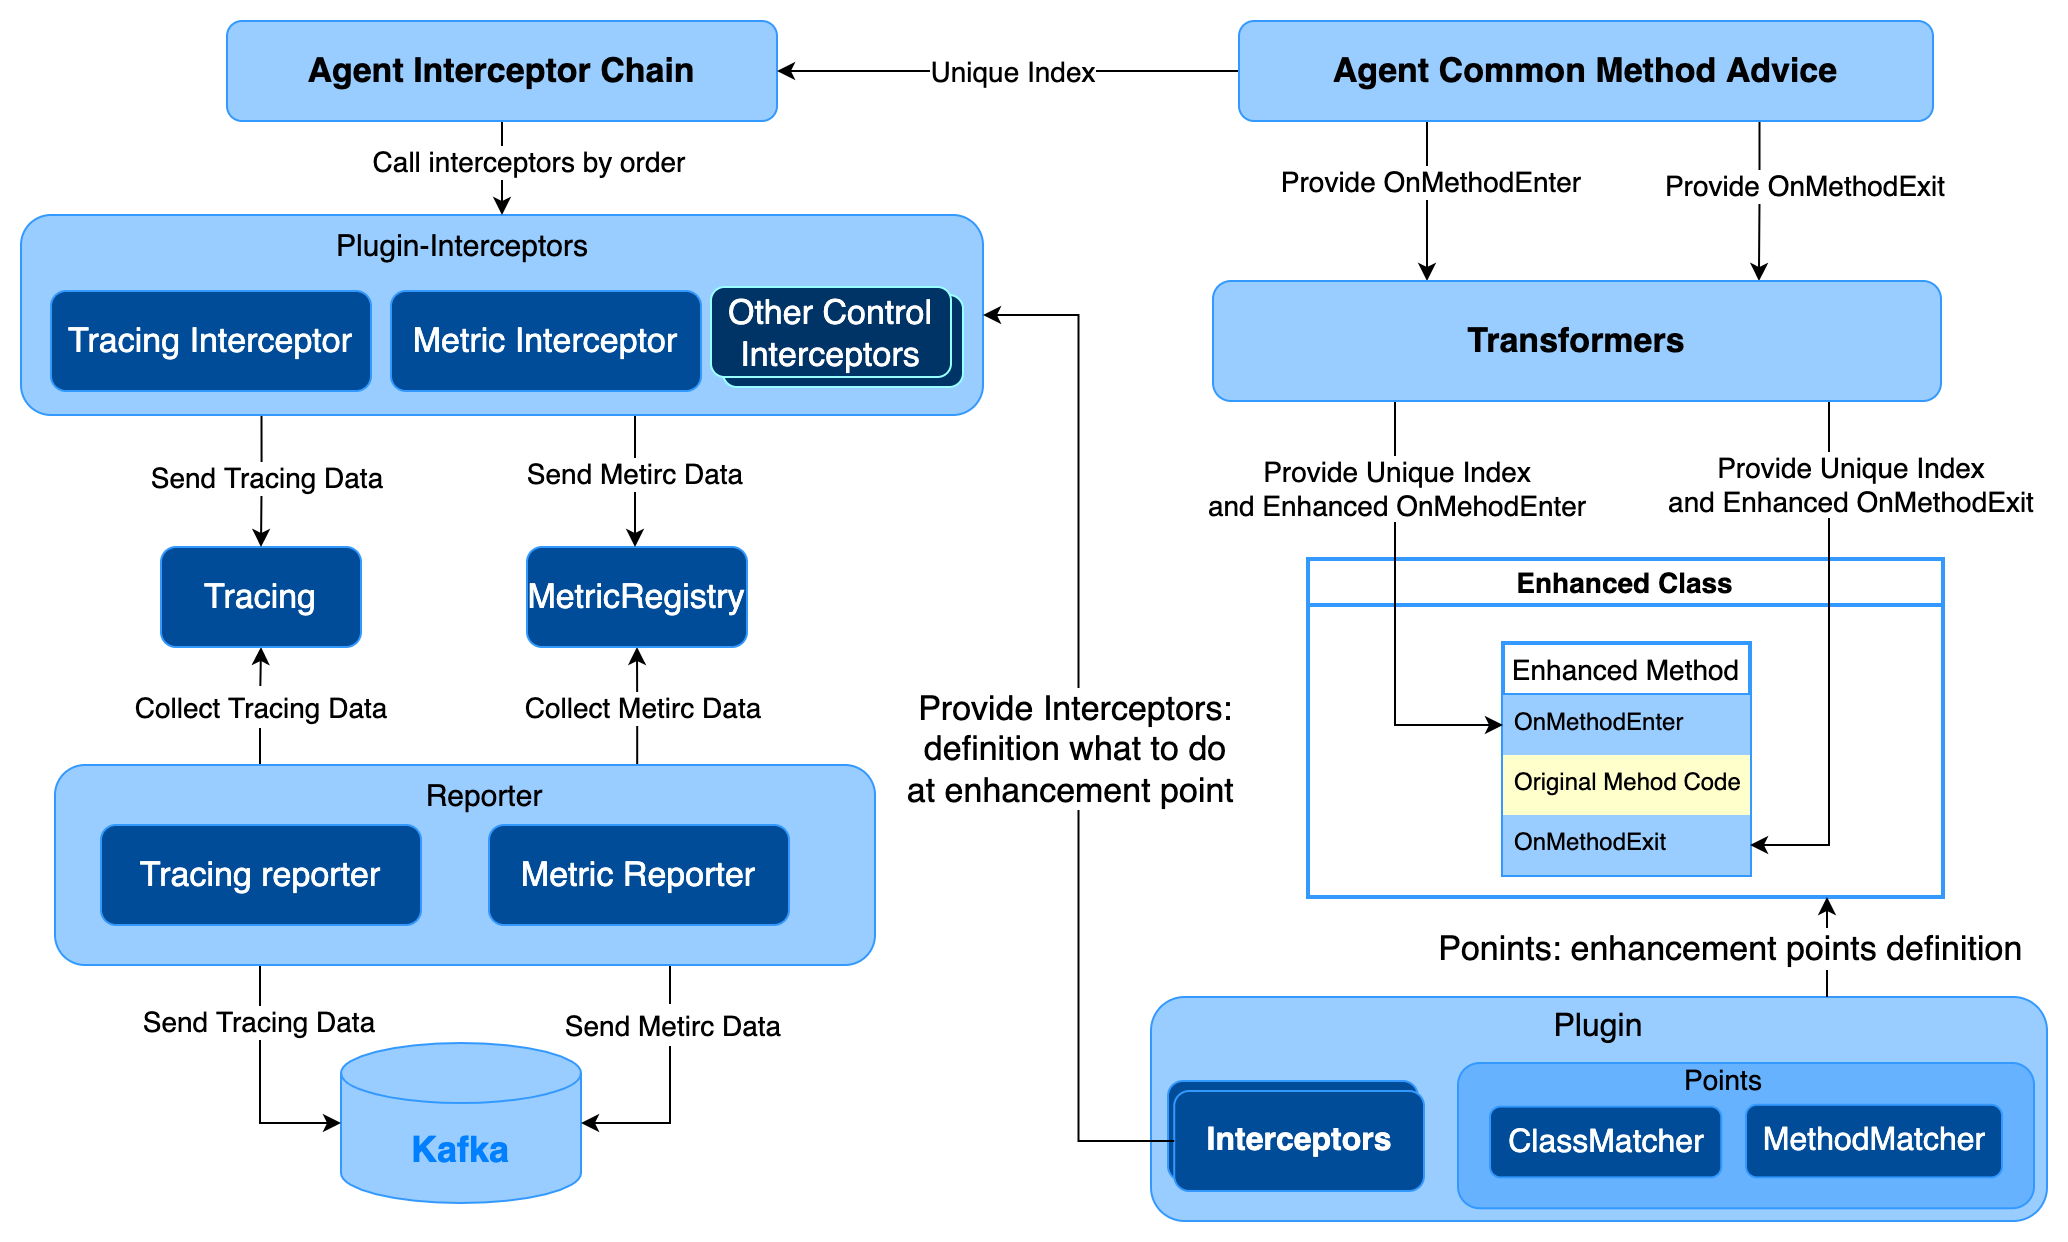
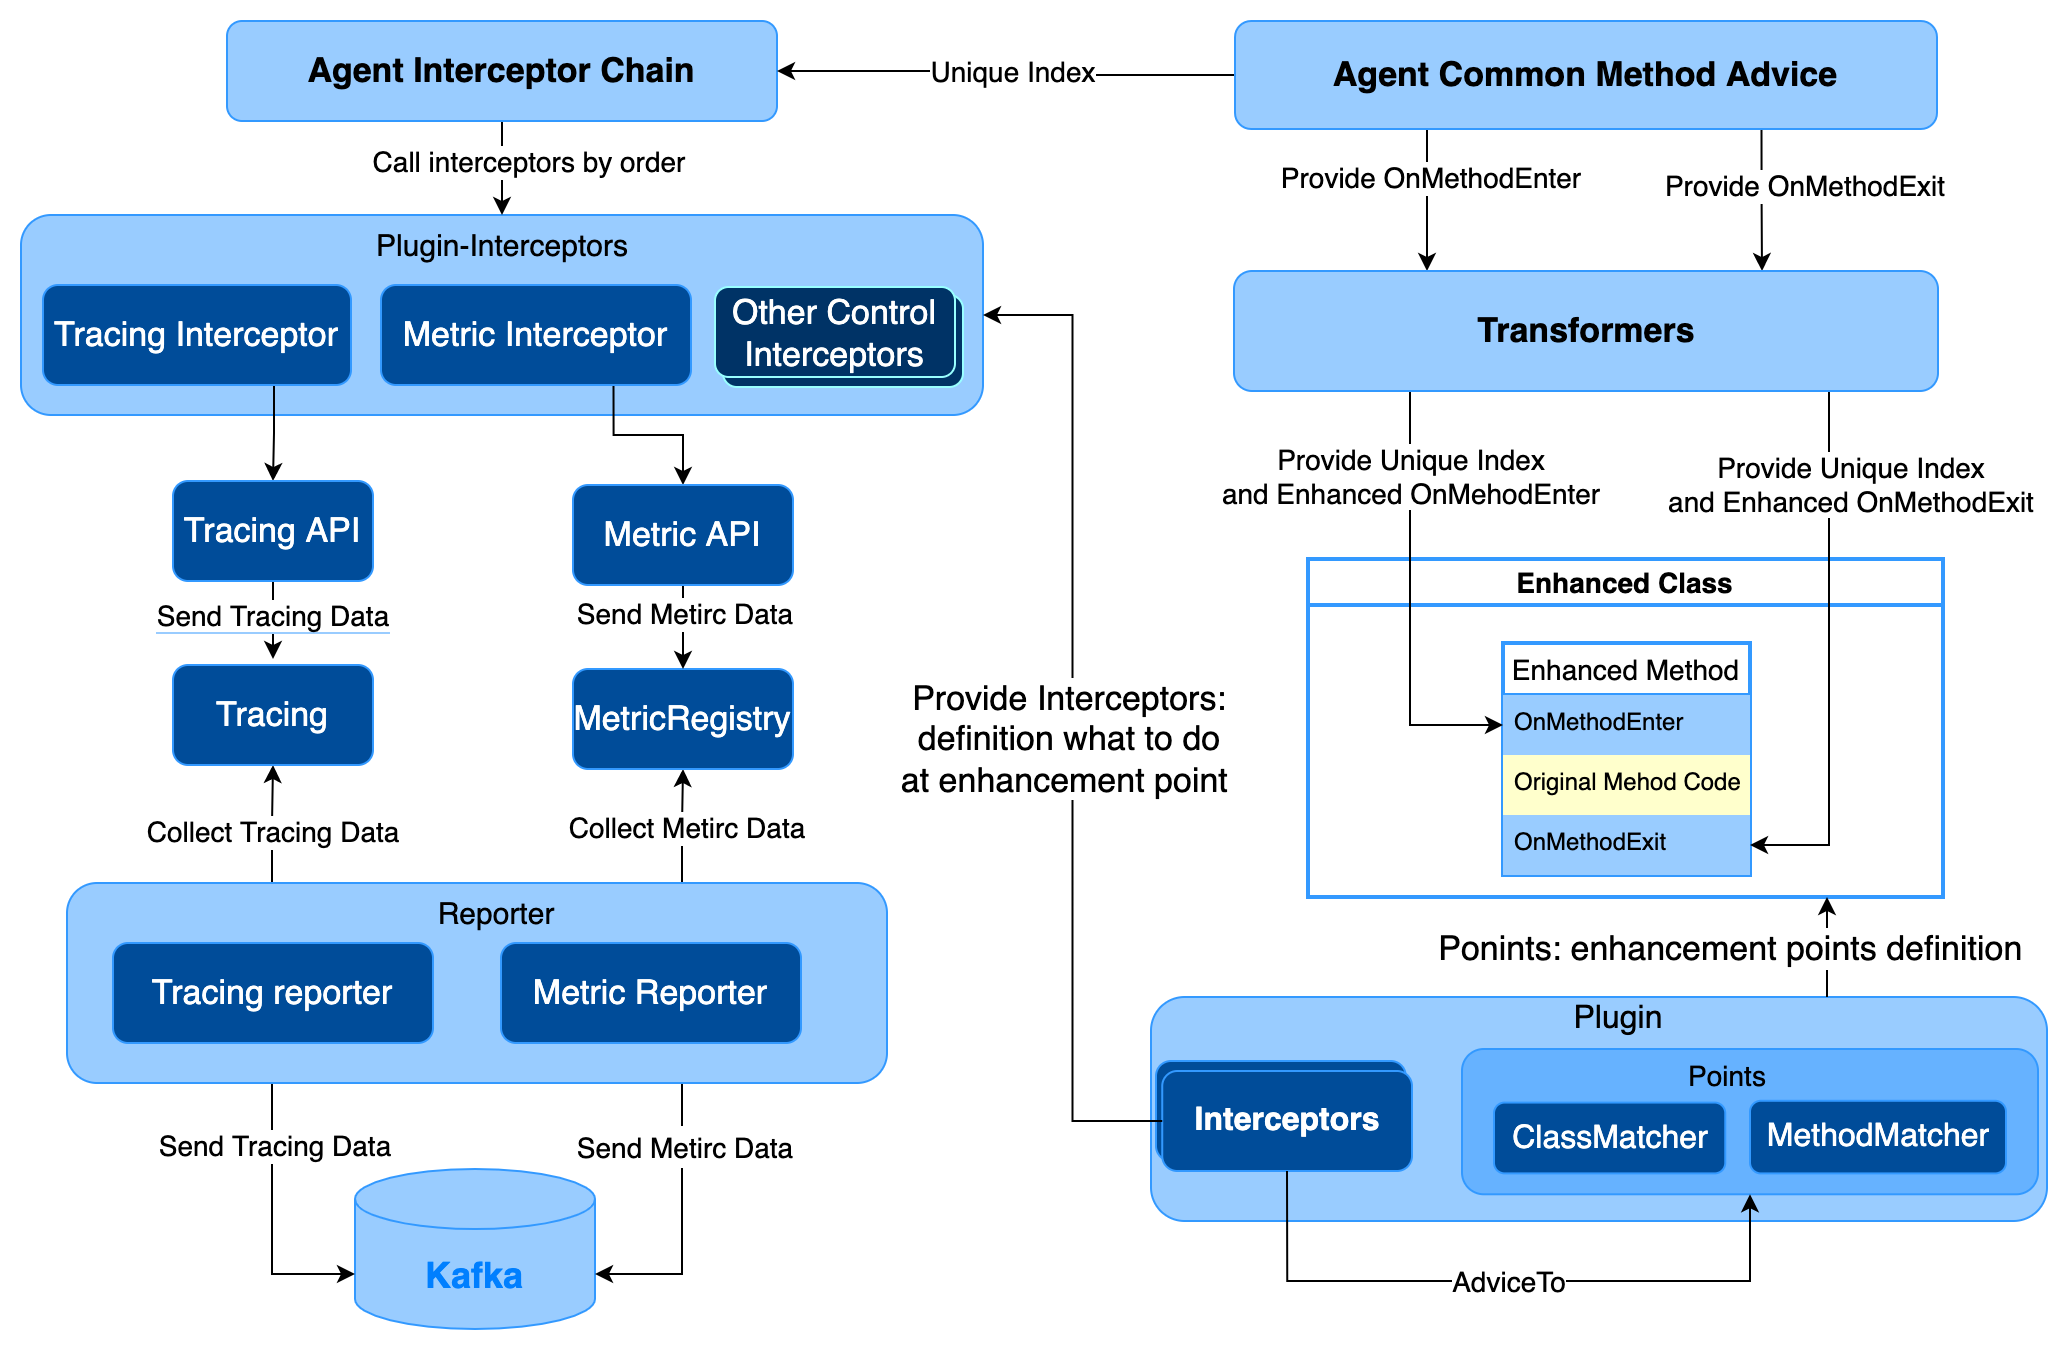
complete the section of Readme.md before Quick start

diff --git a/README.md b/README.md
@@ -14,9 +14,9 @@ An agent component for Java system.
 - [Licenses](#Licenses)
 
 ## Overview
-Easeagent is the underlying component that provides non-intrusive extensions to applications for the Java ecosystem.
-Non-intrusive application extensions currently include data collection, such as tracing, metric and log collection in the APM application domain; it also includes control-panel extensions, such as redirection plugins, to provide the ability of dynamically configuring the back-end for supporting special scenarios, such as full-link stress testing.
-In addition, users can extend Easeagent in the form of plugins to support the non-intrusive needs of user-specific scenarios.
+- Easeagent is the underlying component that provides non-intrusive extensions to applications of the Java ecosystem.
+- Non-intrusive application extensions currently include data collection, such as tracing, metric and log collection in the APM application domain; it also includes control-panel extensions, such as redirection plugins, to provide the ability of dynamically configuring the back-end for supporting special scenarios, such as full-link stress testing.
+- In addition, users can extend Easeagent in the form of plugins to support the non-intrusive needs of user-specific scenarios.
 
 ### Purpose
 - EaseAgent can be a Java agent for APM(Application Performance Management) system.
@@ -36,16 +36,16 @@ In addition, users can extend Easeagent in the form of plugins to support the no
 ![image](./doc/images/EaseAgent-Architecture-v2.0.png)
 
 #### Description
-Instrumenting the method base on [Byte buddy](https://github.com/raphw/byte-buddy) technology.
-```
-net.bytebuddy.asm.Advice.OnMethodEnter, net.bytebuddy.asm.Advice.OnMethodExit
-```
+**Agent Common Method Advice** is base on [Byte buddy](https://github.com/raphw/byte-buddy) technology.
+
+
 1. Easeagent's plugin defines where (which classes and methods) to make enhancements by Points implemention and what to do at the point of enhancement by the implementions of Interceptor.
 2. When the program invokes the enhanced method of class defined by Points, the `unique index`(uid) owned by the method will be used as a parameter to call the common interface of `Agent Common Method Advice`, which finds the `Agent Interceptor Chain` by the `Unique Index` and calls the `before` method of each Interceptor in the chain in order of priority.
 3. The `Unique Index` (UID) is generated by Transformers for each enhanced method.
-3. `Metric` and `Tracing` information will be stored in `MetricRegistry` and `Tracing`.
-4. The `Reporter` module will get information from `MetricRegistry` and `Tracing` and send it to `Kafka`.
-5. The `after` method of each interceptor in the `Agent Interceptor Chain` will be invoked in the reverse order of the `before` invoked at last.
+4. Normally, both the `Metric Interceptor` and the `Tracing Interceptor` are in the agent interceptor chain and are called sequentially.
+5. According to call the `Metric API` and `Tracing API` in interceptors, the `Metric` and `Tracing` information will be stored in `MetricRegistry` and `Tracing`.
+6. The `Reporter` module will get information from `MetricRegistry` and `Tracing` and send it to `Kafka`.
+7. The `after` method of each interceptor in the `Agent Interceptor Chain` will be invoked in the reverse order of the `before` invoked at last.
 
 ## Features
 * Collecting Metric & Tracing Logs.
